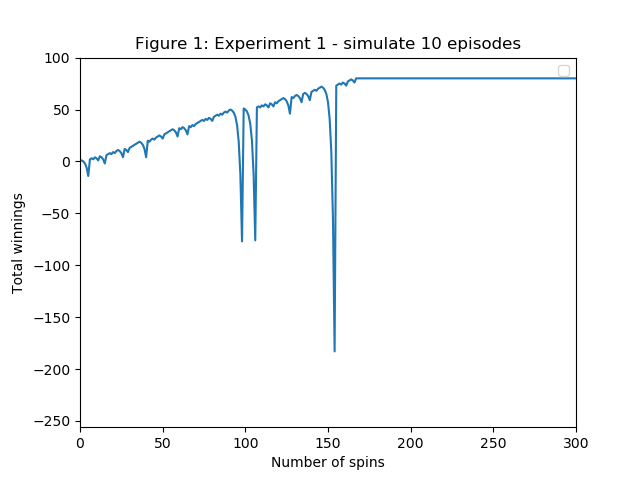
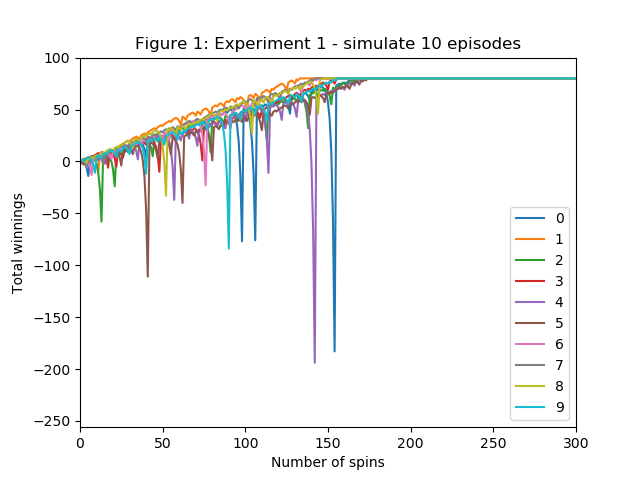
final

diff --git a/martingale.py b/martingale.py
@@ -97,17 +97,18 @@ def experiment1_fig1():
     # plot all 10 runs on one chart
         # x axis must range from 0 to 300
         # y axis must range from -256 to 100
-
+    res = []
     for i in range(10):
         cur_episode = strategy_simulate()
-        plt.plot(cur_episode)
-        if i == 0:
-            plt.axis([0, 300, -256, 100])
-            plt.title("Figure 1: Experiment 1 - simulate 10 episodes")
-            plt.xlabel("Number of spins")
-            plt.ylabel("Total winnings")
-            plt.legend()
-            break
+        res.append(cur_episode)
+    df = pd.DataFrame(res).T
+
+    df.plot()
+    plt.axis([0, 300, -256, 100])
+    plt.title("Figure 1: Experiment 1 - simulate 10 episodes")
+    plt.xlabel("Number of spins")
+    plt.ylabel("Total winnings")
+    plt.legend()
 
     plt.savefig("Figure1.png")
     plt.clf()
@@ -118,10 +119,10 @@ def experiment1_fig2():
         episode_result = strategy_simulate()
         res.append(episode_result)
 
-    df = pd.DataFrame(res)
-    mean_line = df.mean()
-    up_boundary = df.mean()+df.std()
-    down_boundary = df.mean()-df.std()
+    df = pd.DataFrame(res).T
+    mean_line = df.mean(axis=1)
+    up_boundary = df.mean(axis=1)+df.std(axis=1)
+    down_boundary = df.mean(axis=1)-df.std(axis=1)
 
     plt.plot(mean_line, label = "mean")
     plt.plot(up_boundary, label="up boundary")
@@ -142,10 +143,10 @@ def experiment1_fig3():
         episode_result = strategy_simulate()
         res.append(episode_result)
 
-    df = pd.DataFrame(res)
-    mean_line = df.median()
-    up_boundary = df.median()+df.std()
-    down_boundary = df.median()-df.std()
+    df = pd.DataFrame(res).T
+    mean_line = df.median(axis=1)
+    up_boundary = df.median(axis=1)+df.std(axis=1)
+    down_boundary = df.median(axis=1)-df.std(axis=1)
 
     plt.plot(mean_line, label = "median")
     plt.plot(up_boundary, label="up boundary")
@@ -172,16 +173,15 @@ def strategy_simulate_with_limited_bankroll():
 
         while not won:
             won = get_spin_result(win_prob)
-            spin_cnt += 1
-
             if won:
                 episode_winnings += bet_amount
             else:
                 episode_winnings -= bet_amount
                 bet_amount = min( 2 * bet_amount, episode_winnings + 256)
 
+            spin_cnt += 1
             result_array[spin_cnt] = episode_winnings
-            # print("At spin {}: the winning amount is {}".format(spin_cnt, episode_winnings))
+            # print("At spin {}: bet amount it {}, the winning amount is {}".format(spin_cnt, bet_amount, episode_winnings))
             if spin_cnt == 1000:
                 break
     result_array[spin_cnt:] = episode_winnings
@@ -193,10 +193,10 @@ def experiment2_fig4():
         episode_result = strategy_simulate_with_limited_bankroll()
         res.append(episode_result)
 
-    df = pd.DataFrame(res)
-    mean_line = df.mean()
-    up_boundary = df.mean()+df.std()
-    down_boundary = df.mean()-df.std()
+    df = pd.DataFrame(res).T
+    mean_line = df.mean(axis=1)
+    up_boundary = df.mean(axis=1)+df.std(axis=1)
+    down_boundary = df.mean(axis=1)-df.std(axis=1)
 
     plt.plot(mean_line, label = "mean")
     plt.plot(up_boundary, label="up boundary")
@@ -217,10 +217,10 @@ def experiment2_fig5():
         episode_result = strategy_simulate_with_limited_bankroll()
         res.append(episode_result)
 
-    df = pd.DataFrame(res)
-    mean_line = df.median()
-    up_boundary = df.median()+df.std()
-    down_boundary = df.median()-df.std()
+    df = pd.DataFrame(res).T
+    mean_line = df.median(axis=1)
+    up_boundary = df.median(axis=1)+df.std(axis=1)
+    down_boundary = df.median(axis=1)-df.std(axis=1)
 
     plt.plot(mean_line, label = "median")
     plt.plot(up_boundary, label="up boundary")
@@ -253,13 +253,14 @@ def question_experiments():
     #question 5
     sum5 = 0
     for i in range(1000):
-        sum5 += strategy_simulate_with_limited_bankroll()[-1]
+        winning = strategy_simulate_with_limited_bankroll()[-1]
+        sum5 += winning
     res5 = sum5 / 1000
-    print("Q5: The estimated expected value of winnings after 1000 sequential bets is {}".format(sum5))
+    print("Q5: The estimated expected value of winnings after 1000 sequential bets is {}".format(res5))
 
 
-def test_plot(alist):
-    plt.plot(alist)
+def plot_df(df):
+    plt.plot(df)
     plt.show()
     plt.clf()
 
@@ -278,9 +279,12 @@ def test_code():
     experiment2_fig5()
 
     question_experiments()
-    #alist = strategy_simulate_with_limited_bankroll()
-    #print(alist[:30])
-    #test_plot(alist)
+
+    #res = []
+    #for i in range(100):
+    #    res.append(strategy_simulate_with_limited_bankroll())
+    #df = pd.DataFrame(res).T
+    #plot_df(df)
 
 if __name__ == "__main__":
     test_code()
